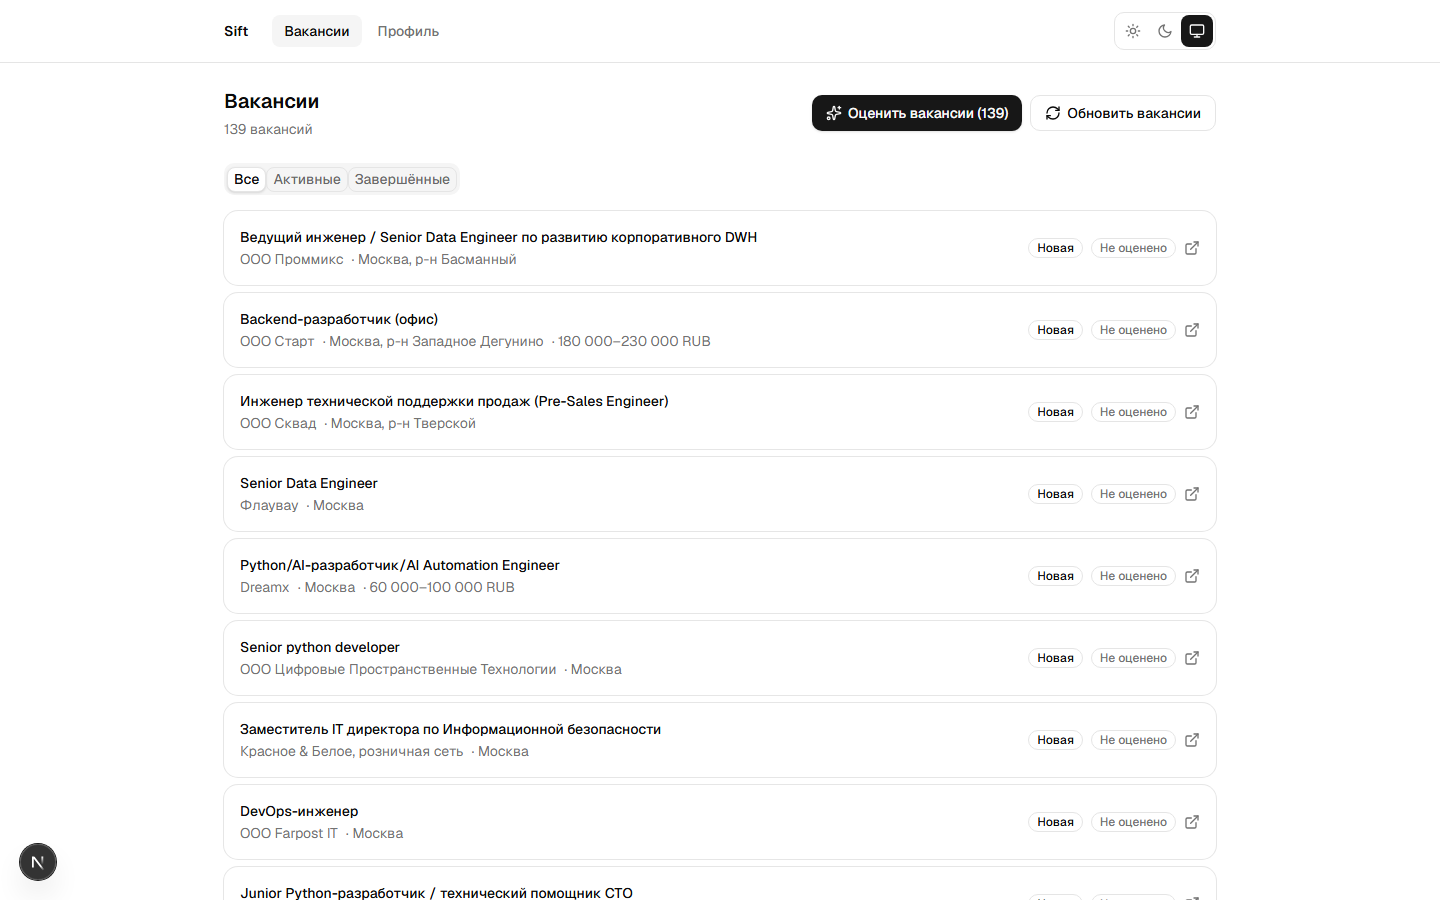
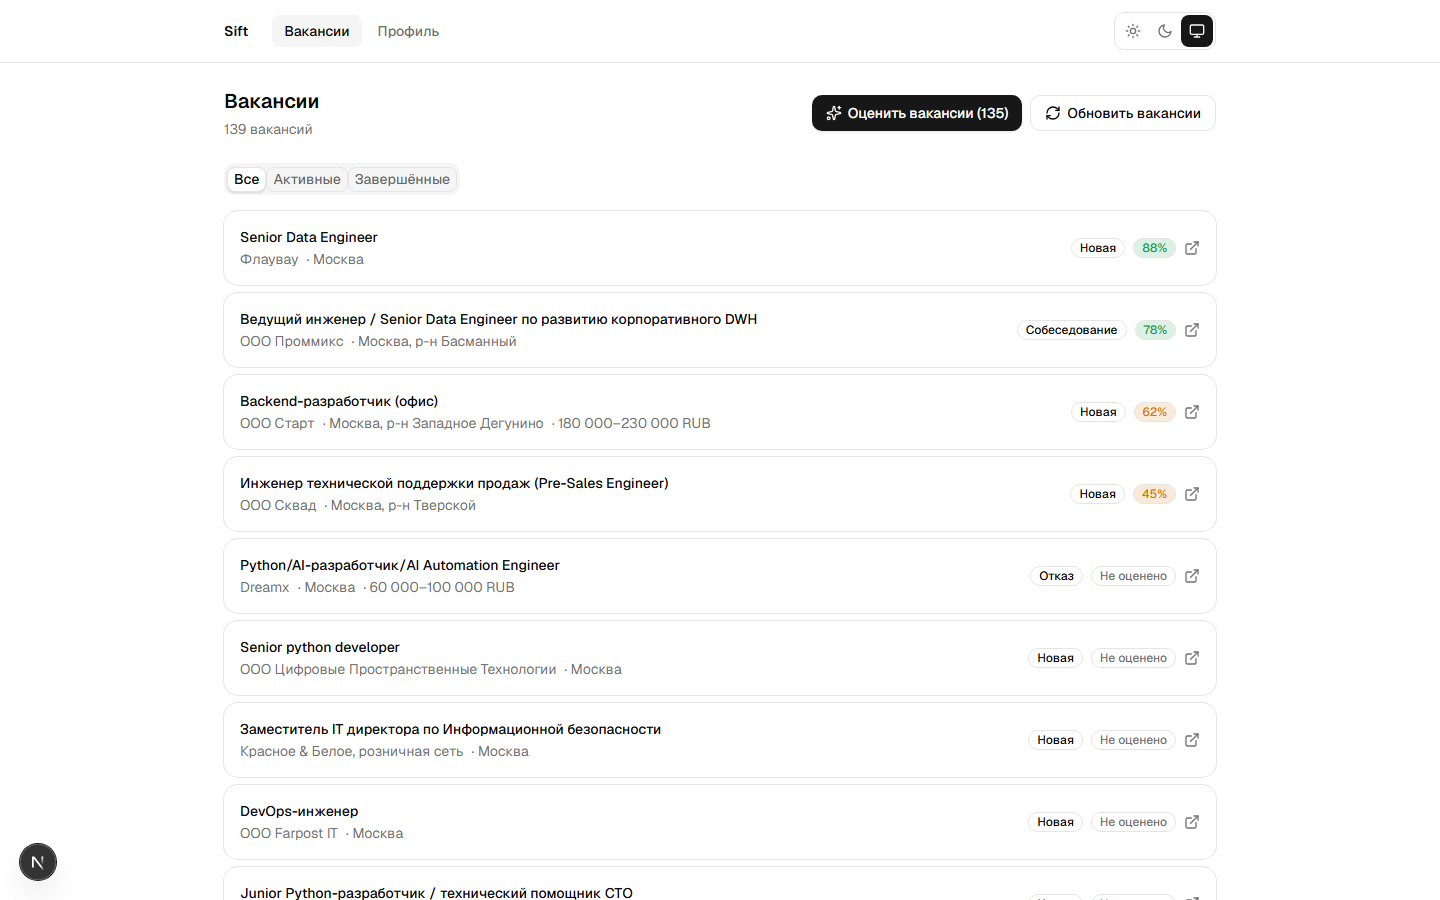
Add fullscreen project lightbox and expand screenshot galleries to 4-5 per project
Each project card now links its screenshot preview to a fullscreen
lightbox: prev/next navigation, dot indicators, click-to-zoom on the
image, and the full project description/tags/links alongside it —
addresses feedback that thumbnails alone didn't show enough and
weren't clickable.

GetGrip is now deployed at demo.getgrip.ru (HTTPS, seeded demo data)
so it gets a real 5-screenshot gallery and a live badge instead of
the placeholder tile. Wisely/Fuel/Cadence rounded out to 5 screenshots
each; Sift to 4 (a 5th angle was a near-duplicate of an existing shot,
skipped rather than padded).

diff --git a/src/components/sections/ProjectLightbox.tsx b/src/components/sections/ProjectLightbox.tsx
@@ -1,0 +1,197 @@
+"use client";
+
+import { useEffect, useState } from "react";
+import Image from "next/image";
+import { AnimatePresence, motion } from "framer-motion";
+import { ChevronLeft, ChevronRight, X, ArrowRight, ZoomIn } from "lucide-react";
+import type { Project } from "@/lib/content";
+
+export default function ProjectLightbox({
+  project,
+  initialIndex,
+  onClose,
+}: {
+  project: Project;
+  initialIndex: number;
+  onClose: () => void;
+}) {
+  const images = project.screenshots ?? [];
+  const [index, setIndex] = useState(initialIndex);
+  const [zoomed, setZoomed] = useState(false);
+
+  const goTo = (next: number) => {
+    setZoomed(false);
+    setIndex((next + images.length) % images.length);
+  };
+
+  useEffect(() => {
+    document.body.style.overflow = "hidden";
+    const handleKeyDown = (e: KeyboardEvent) => {
+      if (e.key === "Escape") onClose();
+      if (e.key === "ArrowRight") goTo(index + 1);
+      if (e.key === "ArrowLeft") goTo(index - 1);
+    };
+    window.addEventListener("keydown", handleKeyDown);
+    return () => {
+      document.body.style.overflow = "unset";
+      window.removeEventListener("keydown", handleKeyDown);
+    };
+    // eslint-disable-next-line react-hooks/exhaustive-deps
+  }, [index]);
+
+  return (
+    <motion.div
+      role="dialog"
+      aria-modal="true"
+      aria-label={`${project.title} — подробнее`}
+      className="fixed inset-0 z-60 bg-black/90 backdrop-blur-md flex items-center justify-center p-4 md:p-8"
+      initial={{ opacity: 0 }}
+      animate={{ opacity: 1 }}
+      exit={{ opacity: 0 }}
+      onClick={onClose}
+    >
+      <button
+        onClick={onClose}
+        aria-label="Закрыть"
+        className="absolute top-4 right-4 md:top-6 md:right-6 p-3 rounded-2xl bg-white/10 hover:bg-white/20 text-white transition-colors z-10"
+      >
+        <X aria-hidden="true" size={22} />
+      </button>
+
+      <div
+        className="w-full max-w-6xl max-h-full grid md:grid-cols-[1.4fr_1fr] gap-6 md:gap-10 items-start"
+        onClick={(e) => e.stopPropagation()}
+      >
+        {/* Image carousel */}
+        <div className="relative">
+          <div
+            className={`relative w-full h-[45vh] md:h-[70vh] rounded-2xl overflow-hidden bg-card border border-white/10 ${
+              zoomed ? "cursor-zoom-out" : "cursor-zoom-in"
+            }`}
+            onClick={() => setZoomed((z) => !z)}
+          >
+            {images.length > 0 && (
+              <AnimatePresence mode="wait">
+                <motion.div
+                  key={images[index]}
+                  className="absolute inset-0"
+                  initial={{ opacity: 0 }}
+                  animate={{ opacity: 1 }}
+                  exit={{ opacity: 0 }}
+                  transition={{ duration: 0.2 }}
+                >
+                  <Image
+                    src={images[index]}
+                    alt={`Скриншот ${project.title} ${index + 1}`}
+                    fill
+                    sizes="(min-width: 768px) 60vw, 100vw"
+                    className={`transition-transform duration-300 ${
+                      zoomed ? "object-contain scale-150" : "object-contain scale-100"
+                    }`}
+                  />
+                </motion.div>
+              </AnimatePresence>
+            )}
+
+            {!zoomed && (
+              <div className="absolute bottom-3 right-3 flex items-center gap-1.5 text-xs text-white/80 bg-black/50 px-3 py-1.5 rounded-full pointer-events-none">
+                <ZoomIn aria-hidden="true" size={14} />
+                Увеличить
+              </div>
+            )}
+          </div>
+
+          {images.length > 1 && (
+            <>
+              <button
+                onClick={(e) => {
+                  e.stopPropagation();
+                  goTo(index - 1);
+                }}
+                aria-label="Предыдущее фото"
+                className="absolute left-2 top-1/2 -translate-y-1/2 p-2.5 rounded-full bg-black/50 hover:bg-black/70 text-white transition-colors"
+              >
+                <ChevronLeft aria-hidden="true" size={20} />
+              </button>
+              <button
+                onClick={(e) => {
+                  e.stopPropagation();
+                  goTo(index + 1);
+                }}
+                aria-label="Следующее фото"
+                className="absolute right-2 top-1/2 -translate-y-1/2 p-2.5 rounded-full bg-black/50 hover:bg-black/70 text-white transition-colors"
+              >
+                <ChevronRight aria-hidden="true" size={20} />
+              </button>
+
+              <div className="flex items-center justify-center gap-2 mt-4">
+                {images.map((src, i) => (
+                  <button
+                    key={src}
+                    onClick={(e) => {
+                      e.stopPropagation();
+                      goTo(i);
+                    }}
+                    aria-label={`Фото ${i + 1} из ${images.length}`}
+                    aria-current={i === index}
+                    className={`h-1.5 rounded-full transition-all ${
+                      i === index ? "w-6 bg-white" : "w-1.5 bg-white/30 hover:bg-white/50"
+                    }`}
+                  />
+                ))}
+              </div>
+            </>
+          )}
+        </div>
+
+        {/* Project info */}
+        <div className="text-white max-h-[70vh] overflow-y-auto pr-1">
+          <div className="flex items-center gap-3 mb-3">
+            <span aria-hidden="true" className="text-3xl">
+              {project.emoji}
+            </span>
+            <h3 className="text-3xl font-semibold tracking-[-0.03em]">{project.title}</h3>
+          </div>
+          <span
+            className={`inline-block text-xs font-medium px-3 py-1 rounded-full mb-5 ${project.badgeAccentClass}`}
+          >
+            {project.badge}
+          </span>
+          <p className="text-white/70 text-base leading-relaxed mb-4">{project.description}</p>
+          {project.longDescription && (
+            <p className="text-white/60 text-sm leading-relaxed mb-6">{project.longDescription}</p>
+          )}
+          <div className="flex flex-wrap gap-2 mb-6">
+            {project.tags.map((tag) => (
+              <span key={tag} className="text-xs px-3 py-1 rounded-full bg-white/10 text-white/80">
+                {tag}
+              </span>
+            ))}
+          </div>
+          <div className="flex gap-5">
+            {project.liveUrl && (
+              <a
+                href={project.liveUrl}
+                target="_blank"
+                rel="noopener noreferrer"
+                className="inline-flex items-center gap-1.5 text-sm font-medium text-white hover:text-white/70 transition-colors"
+              >
+                Открыть <ArrowRight aria-hidden="true" size={14} />
+              </a>
+            )}
+            {project.repoUrl && (
+              <a
+                href={project.repoUrl}
+                target="_blank"
+                rel="noopener noreferrer"
+                className="inline-flex items-center gap-1.5 text-sm font-medium text-white/60 hover:text-white transition-colors"
+              >
+                Код <ArrowRight aria-hidden="true" size={14} />
+              </a>
+            )}
+          </div>
+        </div>
+      </div>
+    </motion.div>
+  );
+}

diff --git a/src/lib/content.ts b/src/lib/content.ts
@@ -85,8 +85,15 @@ export const projects: Project[] = [
       "Full-stack SaaS-продукт с веб-, мобильным (Expo/React Native) клиентами и async-бэкендом на FastAPI. Кастомизируемый дашборд из виджетов, push-уведомления, геймификация (XP/ачивменты), синхронизация с Google Calendar, Stripe-биллинг с free/pro планами, собственный OAuth2-сервер авторизации — через него в GetGrip заходят Wisely и Fuel. Задеплоен на своём VPS (nginx, systemd) с полноценным security hardening.",
     emoji: "🧠",
     imageGradientClass: "from-violet-800 to-indigo-950",
-    badge: "Скоро на демо",
-    badgeAccentClass: "bg-violet-500/10 text-violet-400",
+    screenshots: [
+      "/projects/getgrip-1.png",
+      "/projects/getgrip-2.png",
+      "/projects/getgrip-3.png",
+      "/projects/getgrip-4.png",
+      "/projects/getgrip-5.png",
+    ],
+    badge: "Live",
+    badgeAccentClass: "bg-emerald-500/10 text-emerald-400",
     tags: [
       "Next.js 16",
       "React Native",
@@ -95,6 +102,7 @@ export const projects: Project[] = [
       "Redis",
       "Stripe",
     ],
+    liveUrl: "https://demo.getgrip.ru",
     repoUrl: "https://github.com/Moonsh1nee/habitforge-frontend",
   },
   {
@@ -104,7 +112,13 @@ export const projects: Project[] = [
       "Логирование еды с автоматическим пересчётом БЖУ по граммам, сканер штрихкодов (@zxing/browser) и поиск продуктов через Open Food Facts, конструктор собственных составных блюд, автоопределение личных рекордов в тренировках. Алгоритмическая генерация меню на месяц с защитой от повторов и автосборкой списка покупок.",
     emoji: "🥗",
     imageGradientClass: "from-emerald-800 to-teal-950",
-    screenshots: ["/projects/fuel-1.png", "/projects/fuel-2.png"],
+    screenshots: [
+      "/projects/fuel-1.png",
+      "/projects/fuel-2.png",
+      "/projects/fuel-3.png",
+      "/projects/fuel-4.png",
+      "/projects/fuel-5.png",
+    ],
     badge: "Готово",
     badgeAccentClass: "bg-emerald-500/10 text-emerald-400",
     tags: ["Next.js 16", "Prisma 7", "SQLite", "TypeScript"],
@@ -117,7 +131,13 @@ export const projects: Project[] = [
       "Бюджеты и графики расходов по категориям, повторяющиеся транзакции, отдельная модель переводов между счетами (double-entry), накопительные цели с прогресс-барами. Вход через собственный аккаунт GetGrip (OAuth2).",
     emoji: "💰",
     imageGradientClass: "from-amber-800 to-orange-950",
-    screenshots: ["/projects/wisely-1.png", "/projects/wisely-2.png"],
+    screenshots: [
+      "/projects/wisely-1.png",
+      "/projects/wisely-2.png",
+      "/projects/wisely-3.png",
+      "/projects/wisely-4.png",
+      "/projects/wisely-5.png",
+    ],
     badge: "Готово",
     badgeAccentClass: "bg-emerald-500/10 text-emerald-400",
     tags: ["Next.js 16", "Prisma 7", "SQLite", "TypeScript"],
@@ -130,7 +150,12 @@ export const projects: Project[] = [
       "Подтягивает вакансии с hh.ru, оценивает соответствие резюме через Claude API (fit-score, совпадающие/недостающие навыки), генерирует сопроводительные письма. CRM-пайплайн статусов отклика с напоминаниями о фоллоу-апе. hh.ru закрыл публичный API — интеграция работает через HTML-парсинг (cheerio) той же разметки, что видит браузер.",
     emoji: "🎯",
     imageGradientClass: "from-blue-800 to-cyan-950",
-    screenshots: ["/projects/sift-1.png", "/projects/sift-2.png"],
+    screenshots: [
+      "/projects/sift-1.png",
+      "/projects/sift-2.png",
+      "/projects/sift-3.png",
+      "/projects/sift-4.png",
+    ],
     badge: "Готово",
     badgeAccentClass: "bg-emerald-500/10 text-emerald-400",
     tags: ["Next.js 16", "Claude API", "Prisma 7", "Cheerio"],
@@ -143,7 +168,13 @@ export const projects: Project[] = [
       "Таймлайн подписок с масштабированием по датам и разведением пересекающихся платежей по дорожкам, расчёт биллинг-циклов, полный жизненный цикл подписки (активна → пауза → отмена → возврат).",
     emoji: "📅",
     imageGradientClass: "from-fuchsia-800 to-purple-950",
-    screenshots: ["/projects/cadence-1.png", "/projects/cadence-2.png"],
+    screenshots: [
+      "/projects/cadence-1.png",
+      "/projects/cadence-2.png",
+      "/projects/cadence-3.png",
+      "/projects/cadence-4.png",
+      "/projects/cadence-5.png",
+    ],
     badge: "В разработке",
     badgeAccentClass: "bg-violet-500/10 text-violet-400",
     tags: ["Next.js 16", "Prisma 7", "Base UI", "TypeScript"],

diff --git a/src/components/sections/Projects.tsx b/src/components/sections/Projects.tsx
@@ -1,11 +1,17 @@
 "use client";
 
+import { useState } from "react";
 import Image from "next/image";
-import { motion } from "framer-motion";
-import { ArrowRight } from "lucide-react";
-import { projects, GITHUB_URL } from "@/lib/content";
+import { AnimatePresence, motion } from "framer-motion";
+import { ArrowRight, Images } from "lucide-react";
+import { projects, GITHUB_URL, type Project } from "@/lib/content";
+import ProjectLightbox from "@/components/sections/ProjectLightbox";
+
+const PREVIEW_COUNT = 2;
 
 export default function Projects() {
+  const [active, setActive] = useState<{ project: Project; index: number } | null>(null);
+
   return (
     <section id="projects" className="py-24 md:py-32 border-t border-border">
       <div className="max-w-6xl mx-auto px-6">
@@ -37,17 +43,32 @@ export default function Projects() {
             >
               {project.screenshots && project.screenshots.length > 0 ? (
                 <div className="grid grid-cols-2 gap-0.5 h-64 bg-border">
-                  {project.screenshots.map((src) => (
-                    <div key={src} className="relative overflow-hidden">
-                      <Image
-                        src={src}
-                        alt={`Скриншот ${project.title}`}
-                        fill
-                        sizes="(min-width: 768px) 25vw, 50vw"
-                        className="object-cover object-top transition-transform duration-500 group-hover:scale-105"
-                      />
-                    </div>
-                  ))}
+                  {project.screenshots.slice(0, PREVIEW_COUNT).map((src, i) => {
+                    const remaining = project.screenshots!.length - PREVIEW_COUNT;
+                    const isLastPreview = i === PREVIEW_COUNT - 1 && remaining > 0;
+                    return (
+                      <button
+                        key={src}
+                        type="button"
+                        onClick={() => setActive({ project, index: i })}
+                        aria-label={`Открыть галерею ${project.title}, фото ${i + 1}`}
+                        className="relative overflow-hidden cursor-zoom-in"
+                      >
+                        <Image
+                          src={src}
+                          alt={`Скриншот ${project.title}`}
+                          fill
+                          sizes="(min-width: 768px) 25vw, 50vw"
+                          className="object-cover object-top transition-transform duration-500 group-hover:scale-105"
+                        />
+                        {isLastPreview && (
+                          <div className="absolute inset-0 bg-black/60 flex items-center justify-center gap-1.5 text-white text-sm font-medium">
+                            <Images aria-hidden="true" size={16} />+{remaining}
+                          </div>
+                        )}
+                      </button>
+                    );
+                  })}
                 </div>
               ) : (
                 <div
@@ -111,6 +132,16 @@ export default function Projects() {
           ))}
         </div>
       </div>
+
+      <AnimatePresence>
+        {active && (
+          <ProjectLightbox
+            project={active.project}
+            initialIndex={active.index}
+            onClose={() => setActive(null)}
+          />
+        )}
+      </AnimatePresence>
     </section>
   );
 }
